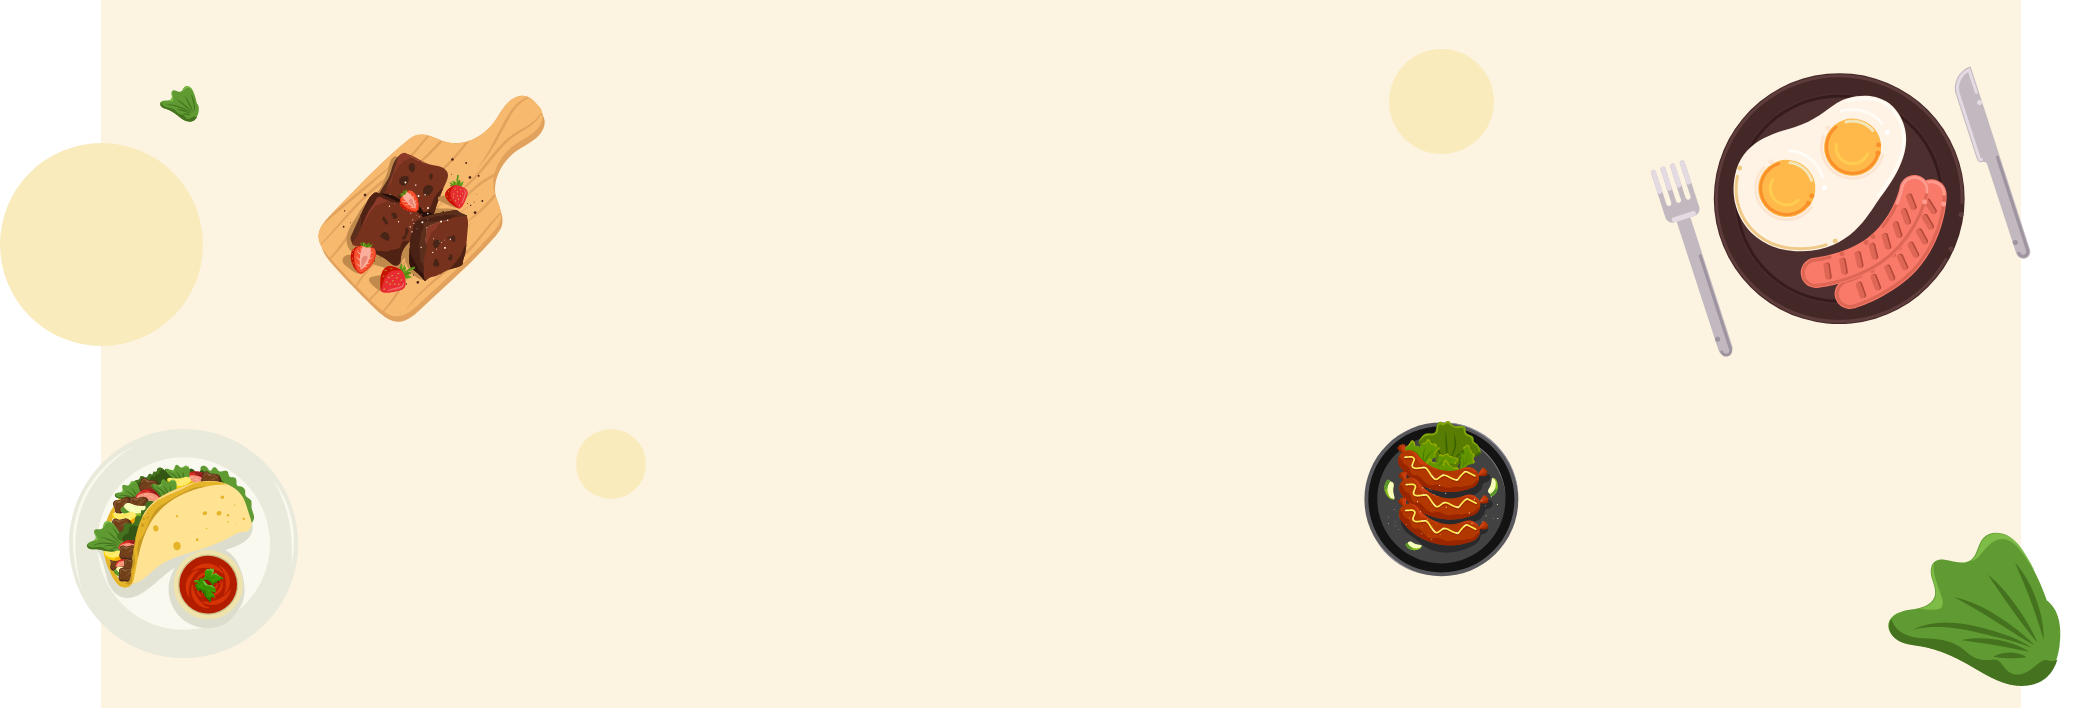
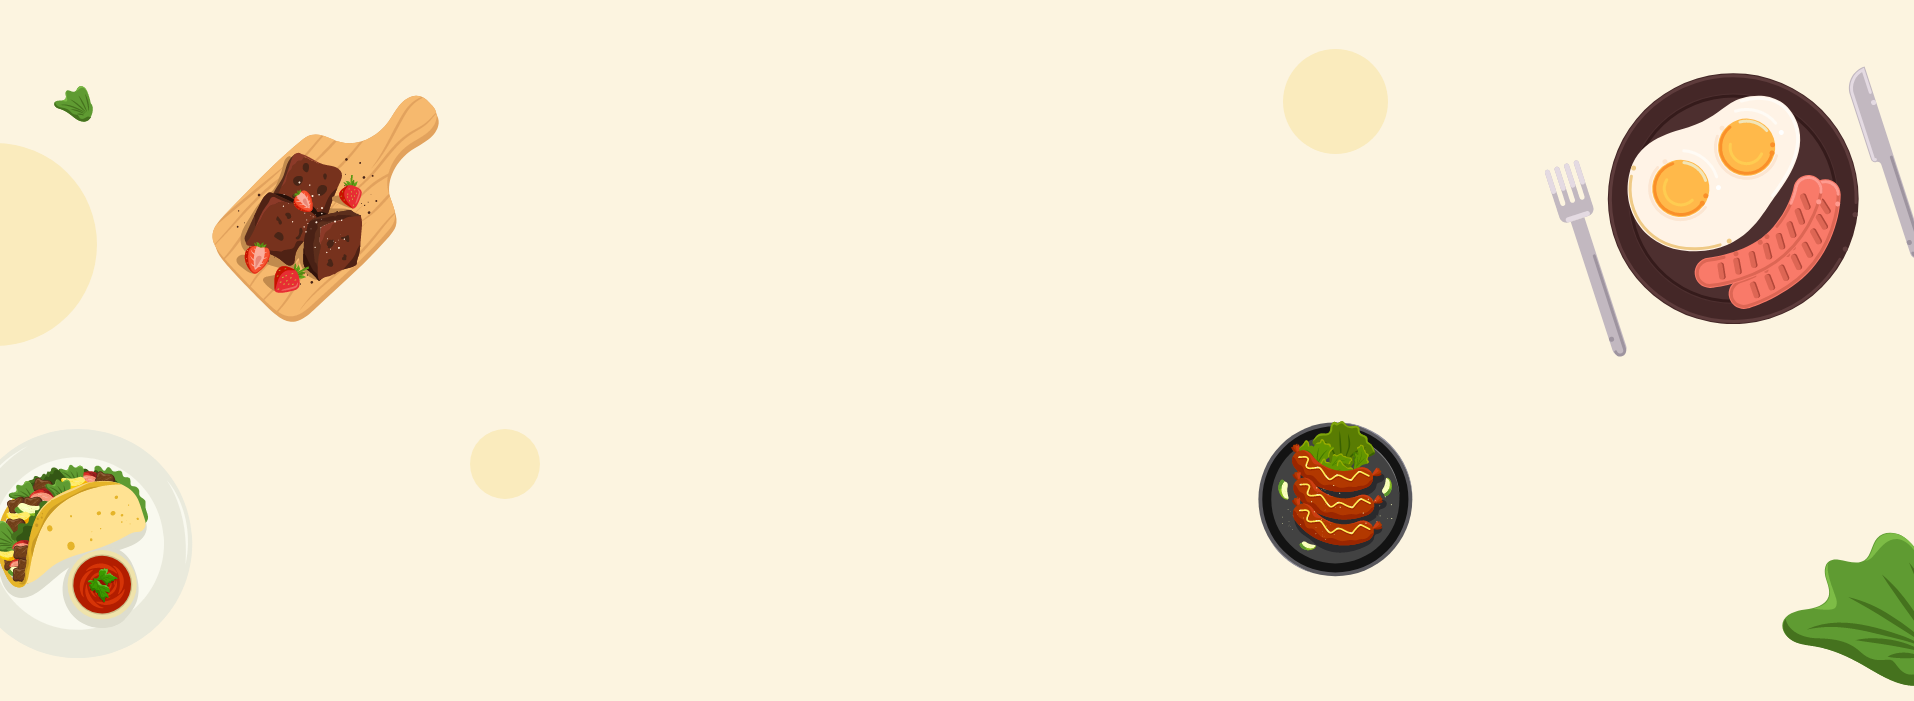
Search Part Done

diff --git a/src/Pages/Shared/Header/Header.js b/src/Pages/Shared/Header/Header.js
@@ -7,12 +7,12 @@ import logo from "../../../images/logo.png";
 const Header = () => {
   return (
     <div>
-      <Navbar collapseOnSelect expand="lg" bg="dark" variant="dark">
+      <Navbar collapseOnSelect expand="lg" bg="dark" variant="dark" fixed='top'>
         <Container>
           <Navbar.Brand as={Link} to="/home">
             <img height={40} src={logo} alt="" />
           </Navbar.Brand>
-          <Navbar.Toggle aria-controls="responsive-navbar-nav" className="border-1 border-warning" />
+          <Navbar.Toggle aria-controls="responsive-navbar-nav" className="border-2 border-danger" />
 
           <Navbar.Collapse id="responsive-navbar-nav" className="">
             <Nav className="ms-auto">
@@ -20,7 +20,7 @@ const Header = () => {
                 <FiShoppingCart></FiShoppingCart>
               </button>
 		  	  <button className="btn text-light d-block mx-auto me-lg-2 my-1 my-lg-0">Login</button>
-		  	  <button className="btn btn-warning d-block mx-auto px-3 my-1 my-lg-0 rounded-pill">Signup</button>
+		  	  <button className="btn btn-danger d-block mx-auto px-3 my-1 my-lg-0 rounded-pill">Signup</button>
             </Nav>
           </Navbar.Collapse>
         </Container>

diff --git a/src/Pages/Home/SearchPart/SearchPart.js b/src/Pages/Home/SearchPart/SearchPart.js
@@ -1,0 +1,30 @@
+import React from 'react';
+import { Button, FormControl, InputGroup } from 'react-bootstrap';
+import background from '../../../images/bannerbackground.png';
+import './SearchPart.css'
+
+const SearchPart = () => {
+	return (
+		<div>
+			<div className='position-relative'>
+				<img className='img-fluid w-100' src={background} alt="" />
+			</div>
+			<div className='position-absolute w-100 search-part'>
+				<h2>Best Testy Food Waiting For You!</h2>
+				<InputGroup className="mb-3 search-box mx-auto my-4">
+					<FormControl
+					placeholder="Recipient's username"
+					aria-label="Recipient's username"
+					aria-describedby="basic-addon2"
+					className='search-field ps-3'
+					/>
+					<Button variant="outline-danger" id="button-addon2" className='search-btn btn-danger text-light order-1 px-3'>
+					Button
+					</Button>
+  				</InputGroup>
+			</div>
+		</div>
+	);
+};
+
+export default SearchPart;

diff --git a/src/Pages/Home/Home/Home.js b/src/Pages/Home/Home/Home.js
@@ -1,10 +1,13 @@
 import React from 'react';
 import Header from '../../Shared/Header/Header';
+import SearchPart from '../SearchPart/SearchPart';
+
 
 const Home = () => {
 	return (
 		<div>
 			<Header></Header>
+			<SearchPart></SearchPart>
 		</div>
 	);
 };

diff --git a/src/Pages/Home/SearchPart/SearchPart.css b/src/Pages/Home/SearchPart/SearchPart.css
@@ -1,0 +1,14 @@
+.search-part{
+	top:40%;
+}
+.search-box{
+	width: 350px;
+}
+.search-field{
+	border-top-left-radius: 20px;
+	border-bottom-left-radius: 20px;
+}
+.search-btn{
+	border-top-right-radius: 20px;
+	border-bottom-right-radius: 20px;
+}
